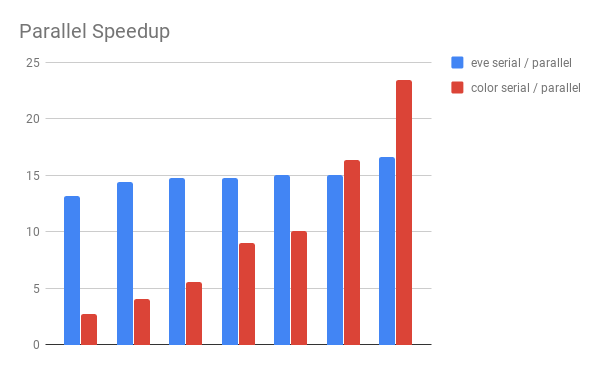
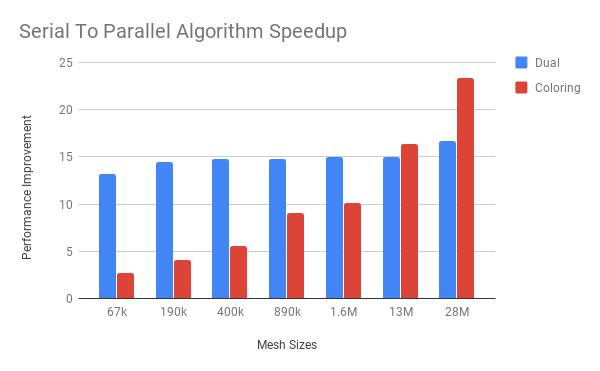
updated graph and pseudocode

diff --git a/engpar_imr18.tex b/engpar_imr18.tex
@@ -257,51 +257,56 @@ which returns a coloring of the original graph's hyperedges.
 \subsubsection{Parallel EVE Construction}
 
 The construction of the second adjacency crs matrix starts by making a
-map that stores hyperedge-to-hyperedge adjacencies. Because the information being read and written should not overlap or change due to race conditions parallelism can be leveraged to improve performance. Using the map two single dimension arrays, \verb|deg| and \verb|edgeList|, are created to represent the graph. Because \verb|deg| stores degree of each edge, a parallel reduction is utilized to find the total degree of an edge then a parallel prefix sum modifies the \verb|deg| array to store the total number of entries up to row \verb|i| exclusively. \verb|edgeList| stores the column index of the non-zero matrix entries which are the hyperedge labels in this construction. The column index in this case represents the edge adjacent to the edge labeled by the row index.
+set that stores hyperedge-to-hyperedge adjacencies. Because the information being read and written should not overlap or change due to race conditions parallelism can be leveraged to improve performance. Using the map two single dimension arrays, \verb|deg| and \verb|edgeList|, are created to represent the graph. Because \verb|deg| stores degree of each edge, a parallel reduction is utilized to find the total degree of an edge then a parallel prefix sum modifies the \verb|deg| array to store the total number of entries up to row \verb|i| exclusively. \verb|edgeList| stores the column index of the non-zero matrix entries which are the hyperedge labels in this construction. The column index in this case represents the edge adjacent to the edge labeled by the row index.
 
-\begin{verbatim}
-edge_vertex_edge_adjacencies(G):
-  parallel for each vertex
-    for i in hyperedges(v)
-      for j!=i in hyperedges(v)
-        numAdj += 1 
-  // value set to void works as True/False indicator
-  Kokkos::UnorderedMap<Kokkos::pair<uint,uint>,void> m (numAdj)
-  parallel for each vertex
-    for i in hyperedges(v)
-      for j!=i in hyperedges(v)
-        Kokkos::pair<uint,uint> p( i , j )
-        m.insert(p)       
-  N = |E|
-  deg = [N+1]
-  deg(0) = 0
-  parallel for each key in m
-    Kokkos::pair<uint,uint> p = m.get(i).key 
-    deg(p.first+1)++; //atomic add    
-  parallel prefix sum 
-    deg(i) = sum(deg(j=0,i))  
-  edgeList = [deg(N)]
-  adjCount = [N]
-  parallel for each key in m
-    Kokkos::pair<uint,uint> p = m.get(i).key
-    e = degS(p.first)
-    idx = adjCount(p.first)++
-    edgeListS(e+idx) = p.second
-\end{verbatim}
+\begin{algorithm}[H]
+	\caption{Dual Graph Converter}
+	\label{alg:engpar}
+	\algloopdefx{PFor}[1]{\textbf{parallel for} #1 \textbf{do}}
+	\small
+	\begin{algorithmic}[1]
+		\Procedure{CREATE DUAL CSR}{$G=(V,E)$}
+		\State $n = 0$
+		\PFor{$v \in V$}
+			\ForAll{$(i,v) \in E$}
+				\ForAll{$(j,v) \in E\setminus\{(i,v)\}$}
+					\State $n$++
+				\EndFor
+			\EndFor
+		\State set of int pair $m$ (n) \Comment{n is a upper bound on the set's size}
+		\PFor{$v \in V$}
+			\ForAll{$(i,v) \in E$}
+			\ForAll{$(j,v) \in E\setminus\{(i,v)\}$}
+					\State m.insert ( $(i,j)$ )
+				\EndFor
+			\EndFor
+		\State $N=|E|$
+		\State deg = [$N+1$]
+		\PFor {$k\in m$}
+			\State deg($k$.first+1)++
+		\PFor{$i=0,1,\ldots,N$}
+			\State deg[$i$] = sum(deg[$0:i$])
+		\State edgeList = [deg[N]]
+		\State degreeCount = [N]
+		\PFor {$k\in m$}
+			\State $e$ = deg[$k$.first]
+			\State $i$ = degreeCount($k$.first)++
+			\State edgeList[e+i] = $k$.second
+		\EndProcedure
+	\end{algorithmic}
+\end{algorithm}
+This algorithm converts a hypergrpah to its dual. The number of adjacencies are counted then used to initialize the set to avoid needing to allocate more memory later in the algorithm. Two arrays are created to store the graph information, deg and edgeList. These store the offset of a vertex into the list of vertices adjacent to it. The construction is able to take advantage of parallelism to parse the graph and write the arrays. Together the two arrays represent the graph in compressed sparse row format which can be passed directly to a parallel graph coloring algorithm. This coloring algorithm is implemented in Kokkos Kernels \textbf{REFERENCE}.
 
-This code is mostly setup to call kokkos coloring on a device.
-The portability of Kokkos relies on the creation of the 'View' array
-abstraction.
-Typedefs are extensively used to help readability.
+\section{Application Results} \label{sec:results}
 
 % TIMING RESULTS
 \begin{figure}[!ht]
 	\centering
-	\includegraphics[width=3in]{images/Parallel_Speedup.png}
-	\caption{The ratio of serial time compared to parallel for eve construction and coloring }
+	\includegraphics[width=4in]{images/Parallel_Speedup.png}
+	\caption{The ratio of serial execution time to parallel for dual graph construction and graph coloring}
 	\label{fig:coloringSpeedup}
 \end{figure}
-The timing speedup results shown in \textbf{Fig. 2} demonstrate that parallelism speeds up both coloring and graph construction. However the speedup to graph construction is nearly constant while the speedup to graph coloring continues to increase with the problem size.
+The timing speedup results shown in \textbf{Fig. 2} demonstrate that parallelism speeds up both coloring and dual graph construction. The compiler used was gcc 4.8.5 with compiler flags -O2 on a redhat 7 OS with a GeForce GTX 1080 Ti running nvidia 396.26 and cuda version 9.2. It is notable that the speedup to graph construction is nearly constant while the increase to graph coloring continues to grow with the problem size.
 
 %\begin{itemize}
 %  \item Figure out a better title for this section
